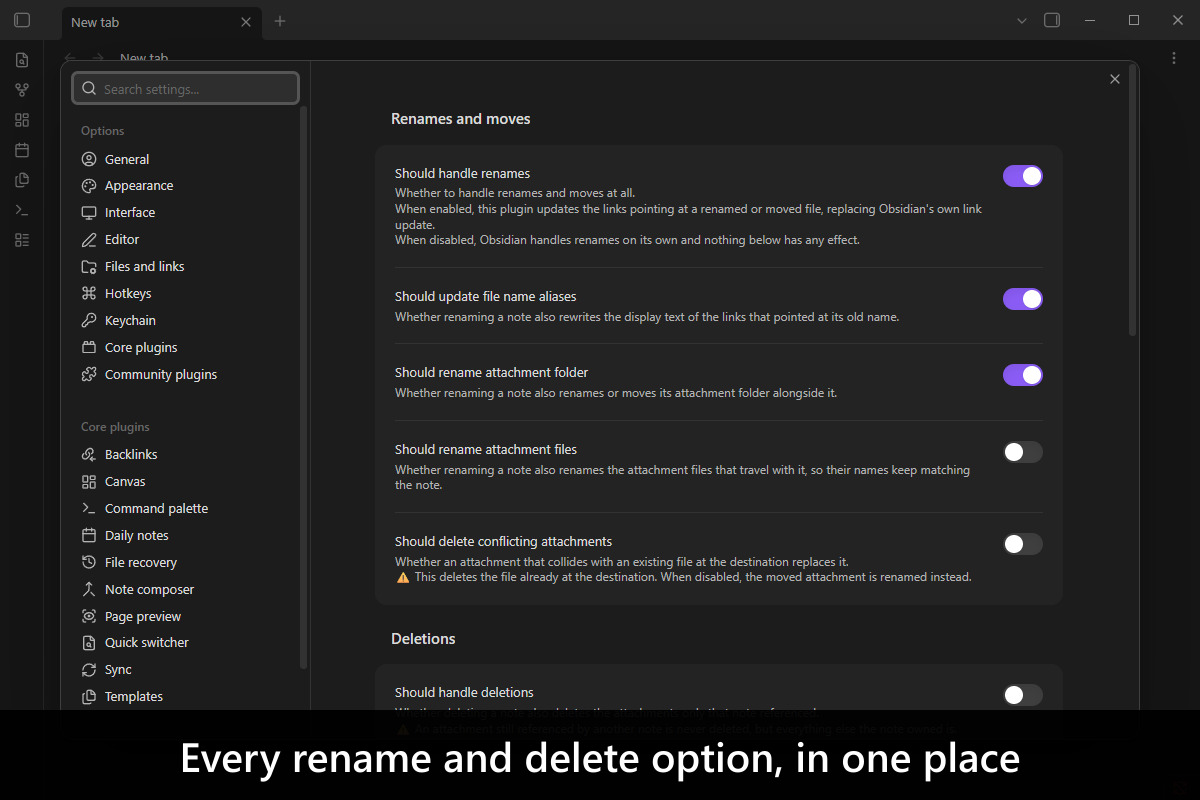
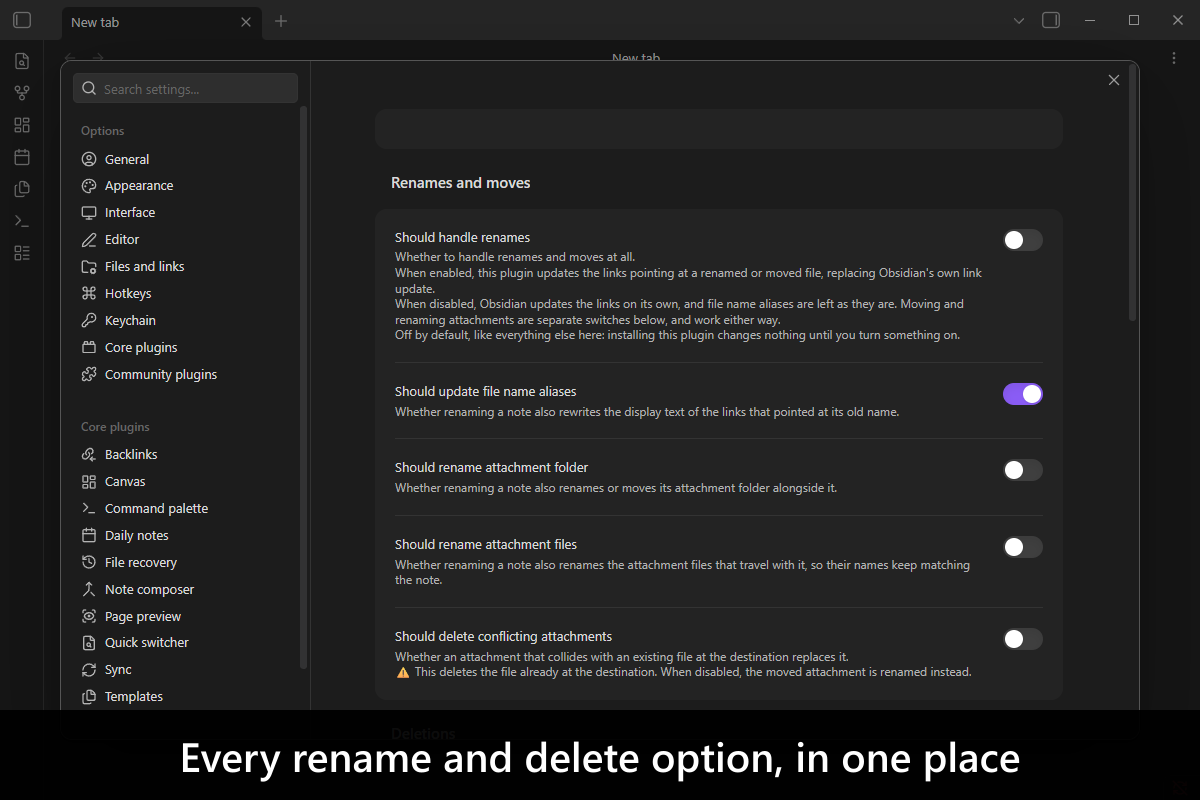
fix(test): make the desktop screenshot capture reproducible, and keep it that way
`npm run capture:screenshots` rewrote two of the three desktop shots on
every run of an unchanged plugin, so a capture always left a dirty tree
and the committed frames were restored from git rather than trusted.
That read like nondeterminism. It was not.

Two concrete causes, both measured and both removed:

1. Version drift. The frames were photographed against whatever asar the
   harness happened to provision, which had moved on to a Catalyst build
   whose chrome left-aligns the breadcrumb and tightens the ribbon
   spacing, while the committed shots had been taken on the public line.
   `capture-screenshots:desktop` now pins `obsidianVersion` to
   `public-latest`, merged into that project's existing
   `environmentOptions` rather than assigned, so the CDP transport keeps
   the command timeout `editContext` has already put there.

2. The editor caret. With the pin in place shot 3 still moved
   occasionally, by exactly 33 pixels in a 1px-wide column at x=265,
   y=170..202 -- the caret beside the heading, caught on the other half
   of its blink. `shoot` now drops focus before the shutter.

A third thing moves a frame, and it should: this plugin's own UI.
Shipping the no-op defaults and the first-load notice moved shots 1 and
2 while no capture was being run, so the committed pair went on
describing a plugin that no longer existed. All three shots are
recaptured on the pin.

That notice is shown permanently, on every vault with no `data.json` to
[…]

diff --git a/src/screenshots.desktop-capture.integration.test.ts b/src/screenshots.desktop-capture.integration.test.ts
@@ -36,6 +36,39 @@
  * There is deliberately no "before and after" pair. The interesting half of this plugin is what does NOT
  * happen — a link that never broke, an attachment that never stranded — and a frame of a vault that
  * looks correct proves nothing on its own.
+ *
+ * **This capture is byte-stable, and TWO separate things had to be fixed to make it so.**
+ * `npm run capture:screenshots` used to rewrite shots 2 and 3 on every run of an unchanged plugin, which
+ * read like inherent nondeterminism. It was not — it was two concrete causes, both measured 2026-09-03 and
+ * both removed:
+ *
+ * 1. **Version drift, fixed by the pin.** The frames were photographed against whatever asar the harness
+ *    happened to provision, and it had moved on to the Catalyst `obsidian-1.14.0.asar`, whose chrome
+ *    left-aligns the breadcrumb and tightens the ribbon spacing, while the committed shots had been taken
+ *    on the public line. Restoring them from git on each run rather than committing a recapture left that
+ *    difference in place indefinitely. Pinning the project to `public-latest` made shots 2 and 3 reproduce
+ *    their committed bytes exactly; `scripts/vitest-config.ts` holds the pin and the reasoning.
+ * 2. **The editor caret, fixed by `blurEditor` in `shoot`.** With the pin in place shot 3 still moved
+ *    occasionally, by exactly 33 pixels in a 1px-wide column at x=265, y=170..202 — the caret beside the
+ *    heading, caught on the other half of its blink. See that function for why focus is dropped rather than
+ *    the caret hidden.
+ *
+ * So a dirty `images/screenshots/` after a capture IS signal here, unlike in the sibling suite in
+ * `obsidian-app-update-notifier`, whose frames carry a wall clock and genuine compression noise and where
+ * the churn was accepted as unfixable. Two things move a frame, and both are worth seeing: this plugin's own
+ * UI changed — the likelier of the two, and the reason to run a capture at all after a feature lands — or the
+ * pinned Obsidian shipped a new public release and the listing is being re-photographed on it. Either way,
+ * look at the frame before committing it, rather than reaching for `git checkout`.
+ *
+ * The first is not hypothetical: shipping no-op defaults and the first-load notice moved shots 1 and 2 while
+ * this suite was not being run, so the committed pair went on describing a version of the plugin that no
+ * longer existed. That is the same defect as photographing the wrong Obsidian, arriving from the other side.
+ *
+ * **What each `it` asserts is the real guard, and it is deliberately more than the shot needs to render.**
+ * A capture that photographs a degraded frame and overwrites a good one passes silently otherwise: shot 1
+ * checks all thirteen settings rows against its "every option" caption, shot 2 checks that the rewritten
+ * link is in the ACTIVE file and not merely on disk, and shot 3 checks that the refusal notice names the
+ * plugin that took over. Each one is a claim the frame makes to a store visitor.
  */
 
 import {
@@ -64,11 +97,13 @@ interface RefusalProbe {
 }
 
 interface RenameProbe {
+  readonly activeFilePath: null | string;
   readonly linkTextAfter: string;
   readonly noticeText: string;
 }
 
 interface SettingsProbe {
+  readonly noticeText: string;
   readonly settingNames: string[];
 }
 
@@ -86,9 +121,58 @@ const HEIGHT_IN_PIXELS = 800;
 
 const PLUGIN_ID = 'advanced-rename-and-delete-handler';
 const CONFLICTING_PLUGIN_ID = 'obsidian-custom-attachment-location';
+const CONFLICTING_PLUGIN_NAME = 'Custom Attachment Location';
 const SOURCE_NOTE_PATH = 'Screenshots/Chapter one.md';
 const TARGET_NOTE_PATH = 'Screenshots/Chapter two.md';
 const RENAMED_TARGET_NOTE_PATH = 'Screenshots/Chapter two renamed.md';
+
+const RENAME_NOTICE_TEXT = 'Updated';
+const RENAMED_LINK_TEXT = 'renamed';
+const REFUSAL_NOTICE_TEXT = 'Not running';
+
+/**
+ * The first-load notice, which every capture run meets and no frame here wants.
+ *
+ * `FirstLoadNoticeComponent` speaks once per vault, when there is no `data.json` to read — which is every
+ * run of this suite, because a capture always starts on a temporary vault. It is shown `isPermanent`, so
+ * unlike the rename notice it never clears itself, and it lands in the top-right corner: over the settings
+ * panel that shot 1's caption promises, and over the very notice shot 2 exists to show. A store reader does
+ * meet it, once, on an empty vault — but not stacked on top of these two views, which is what a permanent
+ * toast nobody dismissed makes of them.
+ *
+ * So `beforeAll` dismisses it, exactly as clicking it would, and shots 1 and 2 assert it did not come back.
+ * Shot 3 never sees it: the refusal path unloads the plugin, and by then the first load has written the file
+ * that makes "once" true.
+ */
+const FIRST_LOAD_NOTICE_TEXT = 'doing nothing yet';
+
+/**
+ * Every row `PluginSettingsTab` builds, in the order it builds them.
+ *
+ * Shot 1's caption promises "Every rename and delete option, in one place", and asserting a couple of rows
+ * out of thirteen leaves that caption able to go quietly false — a row that stops rendering would still
+ * pass and still be photographed. The panel scrolls, so not all of these are in frame; the claim being
+ * guarded is the tab's, not the viewport's.
+ *
+ * Matched with `arrayContaining` rather than for equality, because the probe reads every
+ * `.setting-item-name` in the document and the settings modal's own search sidebar contributes rows of its
+ * own.
+ */
+const EXPECTED_SETTING_NAMES = [
+  'Should handle renames',
+  'Should update file name aliases',
+  'Should rename attachment folder',
+  'Should rename attachment files',
+  'Should delete conflicting attachments',
+  'Should handle deletions',
+  'Empty folder behavior',
+  'Should rescue shared attachments',
+  'Note priorities',
+  'When several notes could adopt the attachment',
+  'Treat as attachment extensions',
+  'Include paths',
+  'Exclude paths'
+];
 
 const IMAGES_DIRECTORY = join(process.cwd(), 'images', 'screenshots');
 
@@ -118,6 +202,15 @@ beforeAll(async () => {
       app.vault.setConfig('alwaysUpdateLinks', true);
       app.workspace.leftSplit.collapse();
 
+      /*
+       * Every notice the load put on screen, which on a fresh vault is the permanent first-load one. Removed
+       * rather than waited out: it has no timeout to wait out. The settle below doubles as its repaint, so
+       * this costs the closure no extra budget, and shots 1 and 2 assert the corner is clear afterwards.
+       */
+      for (const noticeEl of document.querySelectorAll('.notice')) {
+        noticeEl.remove();
+      }
+
       await sleep(SETTLE_DELAY_IN_MILLISECONDS);
     },
     input: { sourceNotePath: SOURCE_NOTE_PATH },
@@ -129,8 +222,13 @@ describe('desktop store screenshots', () => {
   it('1 - every option in one panel', async () => {
     const probe = await openSettingsTab();
 
-    expect(probe.settingNames).toContain('Should handle renames');
-    expect(probe.settingNames).toContain('Empty folder behavior');
+    expect(probe.settingNames).toEqual(expect.arrayContaining(EXPECTED_SETTING_NAMES));
+
+    /*
+     * Nothing is toasting over the panel. Stricter than "not the first-load notice" on purpose: this frame
+     * is the settings tab and nothing else, so ANY notice in it is a frame the caption does not describe.
+     */
+    expect(probe.noticeText).toBe('');
     await shoot(1, 'Every rename and delete option, in one place');
   });
 
@@ -138,19 +236,63 @@ describe('desktop store screenshots', () => {
     const probe = await renameTargetAndReadResult();
 
     // The notice is what makes a rename visible in a still; the link text is what proves it happened.
-    expect(probe.noticeText).toContain('Updated');
-    expect(probe.linkTextAfter).toContain('renamed');
+    expect(probe.noticeText).toContain(RENAME_NOTICE_TEXT);
+    expect(probe.linkTextAfter).toContain(RENAMED_LINK_TEXT);
+
+    // And the rename notice is the ONLY one — the first-load toast sat exactly where this one belongs.
+    expect(probe.noticeText).not.toContain(FIRST_LOAD_NOTICE_TEXT);
+
+    /*
+     * The rewritten link has to be BEHIND the notice, or the frame is a toast over an unrelated view and
+     * the caption is unsupported. Nothing else here checks what the capture is pointed at: the rename
+     * would still succeed, and every assertion above would still pass, with the source note closed.
+     */
+    expect(probe.activeFilePath).toBe(SOURCE_NOTE_PATH);
     await shoot(2, 'Rename a note and every link to it follows');
   });
 
   it('3 - what it does when another plugin already owns renames', async () => {
     const probe = await installConflictAndReload();
 
-    expect(probe.noticeText).toContain('Not running');
+    expect(probe.noticeText).toContain(REFUSAL_NOTICE_TEXT);
+
+    // Naming the plugin that took over is the whole point of the notice, and of this frame.
+    expect(probe.noticeText).toContain(CONFLICTING_PLUGIN_NAME);
     expect(probe.isLoaded).toBe(false);
     await shoot(3, 'One owner per vault, and it says so rather than fighting');
   });
 });
+
+/**
+ * Takes focus off the editor immediately before a capture, so no caret is in the frame.
+ *
+ * This is the one thing that kept the shots from being byte-stable once the Obsidian was pinned, and it is
+ * a single column of pixels: shot 3 came back 33 pixels different across two runs of an unchanged plugin,
+ * all of them in a 1px-wide vertical bar at x=265, y=170..202 — the caret beside the heading line, caught
+ * on the other half of its blink. Whichever phase the shutter lands on is pure timing, so
+ * roughly every other capture rewrote a PNG that was in every other respect identical.
+ *
+ * Blurring rather than hiding the caret with injected CSS: an editor that does not have focus is a state
+ * Obsidian really renders and a reader really sees, where a focused editor with no caret is not. Nothing
+ * else in any of the three frames depends on focus.
+ *
+ * @returns A {@link Promise} that resolves once focus is gone and the window has repainted.
+ */
+async function blurEditor(): Promise<void> {
+  await evalInObsidian({
+    async callback(): Promise<void> {
+      const REPAINT_DELAY_IN_MILLISECONDS = 500;
+
+      const focusedEl: unknown = document.activeElement;
+      if (focusedEl instanceof HTMLElement) {
+        focusedEl.blur();
+      }
+
+      await sleep(REPAINT_DELAY_IN_MILLISECONDS);
+    },
+    vaultPath: vaultPath()
+  });
+}
 
 /**
  * Installs a stub under a conflicting plugin's id and reloads this plugin, so its refusal notice is on
@@ -176,6 +318,12 @@ async function installConflictAndReload(): Promise<RefusalProbe> {
 
       const pluginFolder = `${app.vault.configDir}/plugins/${conflictingPluginId}`;
       await app.vault.adapter.mkdir(pluginFolder);
+      /*
+       * The manifest's `name` is NOT what the notice renders — `src/conflicting-plugins.ts` carries its own
+       * display name per entry and looks the plugin up by `id`. Verified 2026-09-03 by renaming this field
+       * and re-running: the frame came back byte-identical. Only `id` and `version` matter, the
+       * latter because it must sit below that entry's `minSupportedVersion` for the refusal to fire at all.
+       */
       await app.vault.adapter.write(
         `${pluginFolder}/manifest.json`,
         JSON.stringify({
@@ -255,6 +403,7 @@ async function openSettingsTab(): Promise<SettingsProbe> {
       await sleep(SETTLE_DELAY_IN_MILLISECONDS);
 
       return {
+        noticeText: [...document.querySelectorAll('.notice')].map((notice) => notice.textContent).join(' '),
         settingNames: [...document.querySelectorAll('.setting-item-name')].map((name) => name.textContent)
       };
     },
@@ -320,6 +469,7 @@ async function renameTargetAndReadResult(): Promise<RenameProbe> {
       await sleep(SETTLE_DELAY_IN_MILLISECONDS);
 
       return {
+        activeFilePath: app.workspace.getActiveFile()?.path ?? null,
         linkTextAfter: await app.vault.read(source),
         noticeText: [...document.querySelectorAll('.notice')].map((notice) => notice.textContent).join(' ')
       };
@@ -341,6 +491,8 @@ async function renameTargetAndReadResult(): Promise<RenameProbe> {
  * @param caption - The caption drawn across the bottom of the frame.
  */
 async function shoot(index: number, caption: string): Promise<void> {
+  await blurEditor();
+
   const bytes = await captureObsidianScreenshot({
     heightInPixels: HEIGHT_IN_PIXELS,
     vaultPath: vaultPath(),

diff --git a/scripts/vitest-config.ts b/scripts/vitest-config.ts
@@ -41,6 +41,35 @@ const ANDROID_CAPTURE_TEST_FILES = 'src/**/*.android-capture.integration.test.ts
  */
 const SCREENSHOT_AVD_NAME = 'obsidian_screenshots';
 
+/**
+ * The Obsidian the desktop shots are photographed on, pinned deliberately.
+ *
+ * Nothing in these three frames depends on the Obsidian version for its CONTENT — they are this plugin's
+ * settings tab, its rename notice, and its refusal notice against a stub installed by the suite itself —
+ * but the CHROME around them does, and an unpinned capture photographs whatever the harness happens to
+ * provision. Measured 2026-09-03: two back-to-back capture runs produced byte-identical PNGs
+ * for all three shots, so the suite is deterministic, while both of the committed shots 2 and 3 differed
+ * from those runs — the breadcrumb had moved from centred to left-aligned and the ribbon spacing had
+ * tightened, because the harness had moved on to the Catalyst `obsidian-1.14.0.asar` since they were taken.
+ * That is the whole of the "every run rewrites two shots" symptom this pin closes: not per-run noise, but a
+ * committed set photographed on an Obsidian the harness no longer boots.
+ *
+ * `public-latest` rather than a fixed number, because a store screenshot should show the Obsidian a store
+ * reader is running: following the public line keeps the chrome current and keeps a Catalyst build ahead of
+ * public release out of the listing. It moves when Obsidian ships, which is a drift worth having — unlike
+ * the harness's provisioning, it moves with the audience.
+ *
+ * This deliberately overrides the `OBSIDIAN_VERSION` escape hatch `obsidian-dev-utils` honours on
+ * `integration-tests:desktop`, for the capture project only. A capture is not a test run, and a listing
+ * photographed against an arbitrary version is the defect above.
+ *
+ * **There is deliberately NO installer pin here, unlike the sibling suite in
+ * `obsidian-app-update-notifier`.** That one freezes `obsidianInstallerVersion` because its frame has to
+ * show the installer BEHIND the app — the shot is of an update notice. No frame here reads the
+ * installer version at all, so pinning it would be a constant nothing depends on.
+ */
+const CAPTURE_OBSIDIAN_VERSION = 'public-latest';
+
 const APPIUM_URL = 'http://localhost:4723';
 
 /**
@@ -98,6 +127,20 @@ export const config = defineObsidianPluginVitestConfig({
       {
         test: {
           ...context.desktop,
+          /*
+           * Merged rather than assigned. `editContext` runs BEFORE this and has already put the CDP
+           * transport and its `commandTimeoutInMilliseconds` on `context.desktop`; assigning a fresh
+           * object here would silently drop that budget back to the transport's 30s default, for the one
+           * project whose closures do the most waiting.
+           */
+          environmentOptions: {
+            ...context.desktop.environmentOptions,
+            obsidianTransport: {
+              ...context.desktop.environmentOptions?.['obsidianTransport'] as Record<string, unknown> | undefined,
+              obsidianVersion: CAPTURE_OBSIDIAN_VERSION,
+              type: 'obsidian-cdp'
+            }
+          },
           include: [DESKTOP_CAPTURE_TEST_FILES],
           name: 'capture-screenshots:desktop'
         }

diff --git a/src/screenshots.android-capture.integration.test.ts b/src/screenshots.android-capture.integration.test.ts
@@ -16,6 +16,21 @@
  *
  * There is no mobile equivalent of the desktop viewport override, so the capture is always the device's
  * own framebuffer, and the AVD is built at exactly 900x1600.
+ *
+ * **There is no version pin here, unlike the desktop half.** `scripts/vitest-config.ts` pins
+ * `capture-screenshots:desktop` to `public-latest`, because an unpinned run photographed whatever asar the
+ * harness happened to provision and silently re-chromed the committed frames. Nothing
+ * equivalent is available on this side: `ObsidianAndroidAppiumTransportOptions` exposes twenty options and
+ * not one of them names a version — the app is simply whatever APK the AVD carries, changed by
+ * rebuilding the AVD rather than by configuration.
+ *
+ * So the desktop conclusion — that the capture is byte-stable once the Obsidian is pinned and the caret is
+ * out of the frame — is NOT claimed for these two shots. It has not been measured on this host: the
+ * `obsidian_screenshots` AVD wedges during Appium session creation and no Android capture run has reached a
+ * shot since. If a run here ever rewrites a PNG, look at the frame before assuming it is noise;
+ * the AVD's Obsidian moving is the first thing to rule out, and the caret the second — the desktop half
+ * drops focus in its own `shoot` for exactly that reason, and nothing equivalent is done here because there
+ * has been no run to measure it against.
  */
 
 import {

diff --git a/AGENTS.md b/AGENTS.md
@@ -119,3 +119,4 @@ Emptiness is re-checked against the DISK, not the index — `cleanupEmptyFolders
 - **English-only, with no `i18next`.** The copied handler's translation calls became plain template literals, and the plural forms `i18next` used to supply became `src/pluralize.ts` — its own module because the handler is excluded from coverage wholesale and that function is not. A plugin that later needs translations reinstates `t` from `obsidian-dev-utils/obsidian/i18n/i18n` AND an `src/i18n/i18next.d.ts` augmenting `CustomTypeOptions` — the library's `t` alone does not type-check the selector form, because the augmentation lives in the `obsidian-dev-utils` compilation rather than its published types.
 - **`semver` is a direct dependency**, used at runtime by `src/conflicting-plugins.ts` to compare an installed plugin's manifest version against the first version that no longer conflicts. Same use as in `obsidian-custom-attachment-location`.
 - **The integration projects seed `obsidian-dev-utils`' integration-test harness plugin alongside the plugin under test**, so an `evalInObsidian` closure reaches the whole library surface as `lib.<helper>` rather than only the harness's own helpers. The suppression suites need `lib.ResourceLockComponent` and `lib.flushQueue` to stage a foreign locked transaction and drain the handler's queue. Wired in two ways, because the projects do not share one path: `scripts/vitest-config.ts`'s `editContext` gives every project the `obsidian-dev-utils/integration-test-setup` setup file, and points `desktop` and `android` at `obsidian-dev-utils/integration-test-vitest-global-setup`, where the global setup **replaces** `obsidian-integration-testing/vitest-global-setup-plugin` (it does everything that one does, plus the seeding — listing both would create the vault twice). The two projects that bring their own `populate` — `integration-tests:demo-vault` and `integration-tests:desktop-performance` — keep their own `globalSetup` (`scripts/demo-vault-global-setup.ts`, `scripts/vitest-global-setup-performance.ts`) and compose `getIntegrationTestPluginPopulate()` and `OBSIDIAN_DEV_UTILS_INTEGRATION_TEST_PLUGIN_ID` in by hand instead. Seeding the harness needs `obsidian-dev-utils` at 96.5.1 or above: earlier bundles pulled `adm-zip` in eagerly, whose top-level `require('crypto')` throws on mobile and aborts the whole `integration-tests:android` project's setup.
+- **The screenshot-capture project PINS the Obsidian it photographs; the regular test projects do not.** `capture-screenshots:desktop` in `scripts/vitest-config.ts` sets `obsidianVersion: 'public-latest'`, overriding the `OBSIDIAN_VERSION` escape hatch `obsidian-dev-utils` honours elsewhere. Without it the listing is photographed against whatever asar the harness happens to provision, and the frames silently re-chrome: `npm run capture:screenshots` rewrote shots 2 and 3 on every run of an unchanged plugin, which read like nondeterminism and was tracked as one. It was not. Measured 2026-09-03: adding the pin made shots 2 and 3 reproduce their committed bytes exactly. The dominant cause was the harness having moved on to the Catalyst `obsidian-1.14.0.asar`, whose chrome left-aligns the breadcrumb and tightens the ribbon spacing, against frames taken on the public line; restoring them from git on each run rather than committing a recapture left that difference in place indefinitely. A second, far smaller cause sat underneath it: with the pin in place shot 3 still moved occasionally, by exactly 33 pixels in a 1px-wide column at x=265, y=170..202 — the editor caret beside the heading, caught on the other half of its blink — which `shoot` now removes by dropping focus before the shutter (`blurEditor`, which explains why focus is dropped rather than the caret hidden). With both fixed the capture is byte-stable across runs. **So a dirty `images/screenshots/` after a capture is signal here** — either this plugin's own UI changed, which is the likelier of the two and the reason to capture after a feature lands, or the public line has moved and the listing is being re-photographed on it. Look at the frame before reaching for `git checkout`. Shipping the no-op defaults and the first-load notice moved shots 1 and 2 exactly that way, while no capture was being run, so the committed pair described a plugin that no longer existed; the suite now dismisses that permanent first-load toast before any frame, and shots 1 and 2 assert the corner stayed clear. There is deliberately no installer pin: `obsidian-app-update-notifier` freezes `obsidianInstallerVersion` because its frame must show the installer behind, and no frame here reads the installer version at all. The Android half takes no pin either — `ObsidianAndroidAppiumTransportOptions` exposes twenty options and none names a version, so the mobile app is whatever APK the AVD carries.
